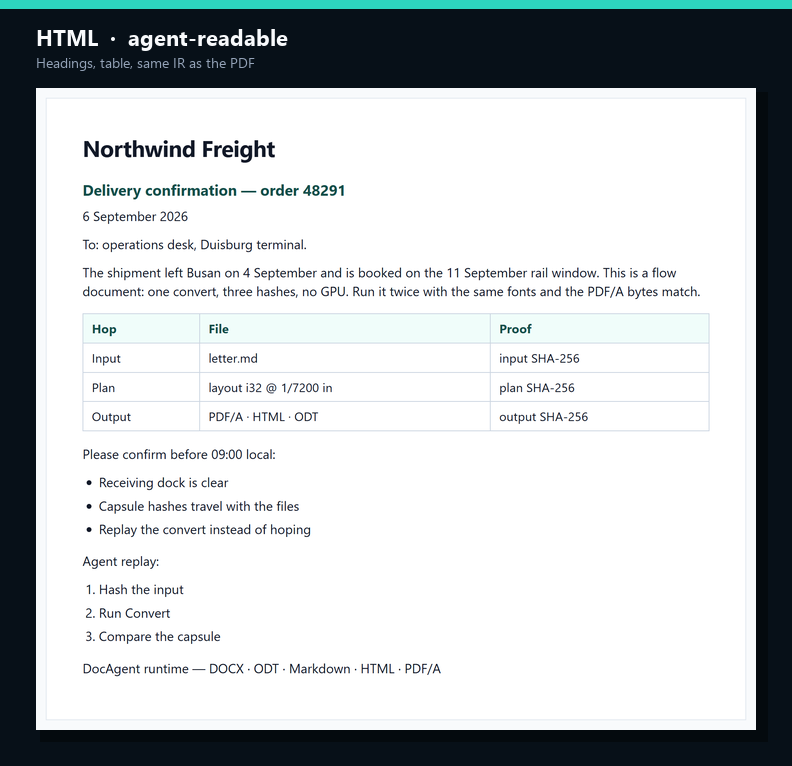
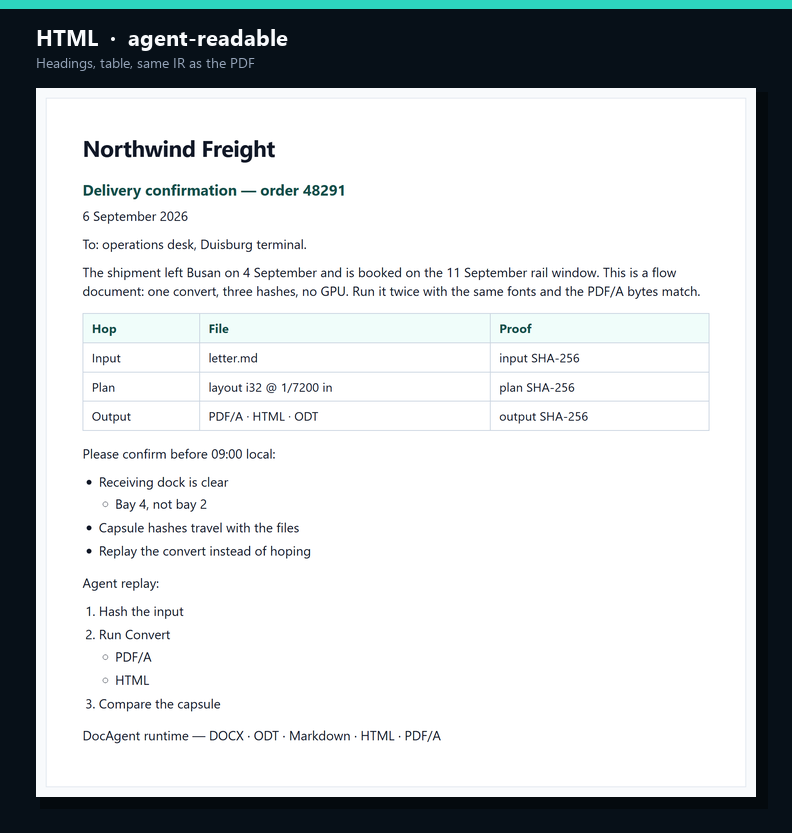
Nest markdown lists in PDF/A and HTML.
Indented - / 1. items set NumberingRef.level. Layout keeps hanging indent (origin_x + line.x). HTML emits nested ul/ol inside the parent li. The sample letter now shows nested dock and convert hops.

Changed region(s): [[0.0909, 0.1501, 0.8788, 0.9008], [0.0303, 0.03, 0.9697, 0.1201], [0.0606, 0.9308, 0.9394, 0.9608]]

diff --git a/docs/assets/letter.html b/docs/assets/letter.html
@@ -1,1 +1,1 @@
-<!DOCTYPE html><html lang="en"><head><meta charset="utf-8"/><title>DocAgent</title><style>body{margin:0;background:#f8fafc;color:#111827}article{max-width:48rem;margin:2rem auto;padding:2.5rem 2.75rem;background:#fff;border:1px solid #e2e8f0;font-family:"Segoe UI",Roboto,Helvetica,Arial,sans-serif;line-height:1.45}h1{font-size:1.75rem;margin:0 0 .6rem;letter-spacing:-.02em}h2{font-size:1.15rem;margin:1.1rem 0 .45rem;color:#134e4a}p{margin:0 0 .7rem}ul,ol{margin:0 0 1rem;padding-left:1.25rem}li{margin:0 0 .35rem}table{border-collapse:collapse;margin:1rem 0;width:100%}th,td{border:1px solid #cbd5e1;padding:.4rem .65rem;text-align:left;font-size:.95rem}th{background:#f0fdfa;color:#134e4a}</style></head><body><article data-section="0"><section><h1>Northwind Freight</h1><h2>Delivery confirmation — order 48291</h2><p>6 September 2026</p><p>To: operations desk, Duisburg terminal.</p><p>The shipment left Busan on 4 September and is booked on the 11 September rail window. This is a flow document: one convert, three hashes, no GPU. Run it twice with the same fonts and the PDF/A bytes match.</p><table><tr><th>Hop</th><th>File</th><th>Proof</th></tr><tr><td>Input</td><td>letter.md</td><td>input SHA-256</td></tr><tr><td>Plan</td><td>layout i32 @ 1/7200 in</td><td>plan SHA-256</td></tr><tr><td>Output</td><td>PDF/A · HTML · ODT</td><td>output SHA-256</td></tr></table><p>Please confirm before 09:00 local:</p><ul><li>Receiving dock is clear</li><li>Capsule hashes travel with the files</li><li>Replay the convert instead of hoping</li></ul><p>Agent replay:</p><ol><li>Hash the input</li><li>Run Convert</li><li>Compare the capsule</li></ol><p>DocAgent runtime — DOCX · ODT · Markdown · HTML · PDF/A</p></section></article></body></html>
+<!DOCTYPE html><html lang="en"><head><meta charset="utf-8"/><title>DocAgent</title><style>body{margin:0;background:#f8fafc;color:#111827}article{max-width:48rem;margin:2rem auto;padding:2.5rem 2.75rem;background:#fff;border:1px solid #e2e8f0;font-family:"Segoe UI",Roboto,Helvetica,Arial,sans-serif;line-height:1.45}h1{font-size:1.75rem;margin:0 0 .6rem;letter-spacing:-.02em}h2{font-size:1.15rem;margin:1.1rem 0 .45rem;color:#134e4a}p{margin:0 0 .7rem}ul,ol{margin:0 0 1rem;padding-left:1.25rem}ul ul,ol ul,ul ol,ol ol{margin:.25rem 0}li{margin:0 0 .35rem}table{border-collapse:collapse;margin:1rem 0;width:100%}th,td{border:1px solid #cbd5e1;padding:.4rem .65rem;text-align:left;font-size:.95rem}th{background:#f0fdfa;color:#134e4a}</style></head><body><article data-section="0"><section><h1>Northwind Freight</h1><h2>Delivery confirmation — order 48291</h2><p>6 September 2026</p><p>To: operations desk, Duisburg terminal.</p><p>The shipment left Busan on 4 September and is booked on the 11 September rail window. This is a flow document: one convert, three hashes, no GPU. Run it twice with the same fonts and the PDF/A bytes match.</p><table><tr><th>Hop</th><th>File</th><th>Proof</th></tr><tr><td>Input</td><td>letter.md</td><td>input SHA-256</td></tr><tr><td>Plan</td><td>layout i32 @ 1/7200 in</td><td>plan SHA-256</td></tr><tr><td>Output</td><td>PDF/A · HTML · ODT</td><td>output SHA-256</td></tr></table><p>Please confirm before 09:00 local:</p><ul><li>Receiving dock is clear<ul><li>Bay 4, not bay 2</li></ul></li><li>Capsule hashes travel with the files</li><li>Replay the convert instead of hoping</li></ul><p>Agent replay:</p><ol><li>Hash the input</li><li>Run Convert<ul><li>PDF/A</li><li>HTML</li></ul></li><li>Compare the capsule</li></ol><p>DocAgent runtime — DOCX · ODT · Markdown · HTML · PDF/A</p></section></article></body></html>

diff --git a/crates/docagent-html/src/lib.rs b/crates/docagent-html/src/lib.rs
@@ -6,7 +6,7 @@ use docagent_model::{Block, Document, Paragraph, Table};
 
 pub fn to_html(doc: &Document) -> String {
     let mut s = String::from(
-        r#"<!DOCTYPE html><html lang="en"><head><meta charset="utf-8"/><title>DocAgent</title><style>body{margin:0;background:#f8fafc;color:#111827}article{max-width:48rem;margin:2rem auto;padding:2.5rem 2.75rem;background:#fff;border:1px solid #e2e8f0;font-family:"Segoe UI",Roboto,Helvetica,Arial,sans-serif;line-height:1.45}h1{font-size:1.75rem;margin:0 0 .6rem;letter-spacing:-.02em}h2{font-size:1.15rem;margin:1.1rem 0 .45rem;color:#134e4a}p{margin:0 0 .7rem}ul,ol{margin:0 0 1rem;padding-left:1.25rem}li{margin:0 0 .35rem}table{border-collapse:collapse;margin:1rem 0;width:100%}th,td{border:1px solid #cbd5e1;padding:.4rem .65rem;text-align:left;font-size:.95rem}th{background:#f0fdfa;color:#134e4a}</style></head><body>"#,
+        r#"<!DOCTYPE html><html lang="en"><head><meta charset="utf-8"/><title>DocAgent</title><style>body{margin:0;background:#f8fafc;color:#111827}article{max-width:48rem;margin:2rem auto;padding:2.5rem 2.75rem;background:#fff;border:1px solid #e2e8f0;font-family:"Segoe UI",Roboto,Helvetica,Arial,sans-serif;line-height:1.45}h1{font-size:1.75rem;margin:0 0 .6rem;letter-spacing:-.02em}h2{font-size:1.15rem;margin:1.1rem 0 .45rem;color:#134e4a}p{margin:0 0 .7rem}ul,ol{margin:0 0 1rem;padding-left:1.25rem}ul ul,ol ul,ul ol,ol ol{margin:.25rem 0}li{margin:0 0 .35rem}table{border-collapse:collapse;margin:1rem 0;width:100%}th,td{border:1px solid #cbd5e1;padding:.4rem .65rem;text-align:left;font-size:.95rem}th{background:#f0fdfa;color:#134e4a}</style></head><body>"#,
     );
     for (i, section) in doc.sections.iter().enumerate() {
         s.push_str(&format!(r#"<article data-section="{i}">"#));
@@ -36,43 +36,74 @@ fn list_format(block: &Block) -> Option<docagent_model::NumberFormat> {
     }
 }
 
-fn push_list_items(s: &mut String, blocks: &[Block], i: &mut usize, fmt: docagent_model::NumberFormat) {
-    while *i < blocks.len() && list_format(&blocks[*i]) == Some(fmt) {
-        if let Block::Paragraph(p) = &blocks[*i] {
-            s.push_str("<li>");
-            s.push_str(&escape(&p.plain_text()));
-            s.push_str("</li>");
+fn list_level(block: &Block) -> Option<u8> {
+    match block {
+        Block::Paragraph(p) => p.numbering.as_ref().map(|n| n.level),
+        _ => None,
+    }
+}
+
+fn emit_list(s: &mut String, blocks: &[Block], i: &mut usize) {
+    let Some(fmt) = list_format(&blocks[*i]) else {
+        return;
+    };
+    let base = list_level(&blocks[*i]).unwrap_or(0);
+    match fmt {
+        docagent_model::NumberFormat::Bullet => s.push_str("<ul>"),
+        docagent_model::NumberFormat::Decimal => {
+            let start = match &blocks[*i] {
+                Block::Paragraph(p) => p.numbering.as_ref().and_then(|n| n.start).unwrap_or(1),
+                _ => 1,
+            };
+            if start == 1 {
+                s.push_str("<ol>");
+            } else {
+                s.push_str(&format!("<ol start=\"{start}\">"));
+            }
         }
+        _ => return,
+    }
+    while *i < blocks.len() {
+        let Some(f) = list_format(&blocks[*i]) else {
+            break;
+        };
+        let lvl = list_level(&blocks[*i]).unwrap_or(0);
+        if lvl < base {
+            break;
+        }
+        if lvl > base {
+            emit_list(s, blocks, i);
+            continue;
+        }
+        if f != fmt {
+            break;
+        }
+        let Block::Paragraph(p) = &blocks[*i] else {
+            break;
+        };
+        s.push_str("<li>");
+        s.push_str(&escape(&p.plain_text()));
         *i += 1;
+        if *i < blocks.len() && list_level(&blocks[*i]).is_some_and(|nl| nl > base) {
+            emit_list(s, blocks, i);
+        }
+        s.push_str("</li>");
+    }
+    match fmt {
+        docagent_model::NumberFormat::Bullet => s.push_str("</ul>"),
+        docagent_model::NumberFormat::Decimal => s.push_str("</ol>"),
+        _ => {}
     }
 }
 
 fn push_blocks(s: &mut String, blocks: &[Block]) {
     let mut i = 0;
     while i < blocks.len() {
-        match list_format(&blocks[i]) {
-            Some(docagent_model::NumberFormat::Bullet) => {
-                s.push_str("<ul>");
-                push_list_items(s, blocks, &mut i, docagent_model::NumberFormat::Bullet);
-                s.push_str("</ul>");
-            }
-            Some(docagent_model::NumberFormat::Decimal) => {
-                let start = match &blocks[i] {
-                    Block::Paragraph(p) => p.numbering.as_ref().and_then(|n| n.start).unwrap_or(1),
-                    _ => 1,
-                };
-                if start == 1 {
-                    s.push_str("<ol>");
-                } else {
-                    s.push_str(&format!("<ol start=\"{start}\">"));
-                }
-                push_list_items(s, blocks, &mut i, docagent_model::NumberFormat::Decimal);
-                s.push_str("</ol>");
-            }
-            _ => {
-                push_block(s, &blocks[i]);
-                i += 1;
-            }
+        if list_format(&blocks[i]).is_some() {
+            emit_list(s, blocks, &mut i);
+        } else {
+            push_block(s, &blocks[i]);
+            i += 1;
         }
     }
 }
@@ -225,5 +256,30 @@ mod tests {
         assert!(html.contains("<li>Hash the input</li>"));
         assert!(html.contains("<li>Run Convert</li>"));
         assert!(!html.contains("<ul>"));
+    }
+
+    #[test]
+    fn nested_bullets_are_nested_ul() {
+        let mut doc = Document::new();
+        let mut section = Section::default();
+        let mut a = Paragraph::from_text("dock");
+        a.numbering = Some(docagent_model::NumberingRef {
+            definition_id: 0,
+            level: 0,
+            start: None,
+            format: Some(docagent_model::NumberFormat::Bullet),
+        });
+        let mut b = Paragraph::from_text("bay 4");
+        b.numbering = Some(docagent_model::NumberingRef {
+            definition_id: 0,
+            level: 1,
+            start: None,
+            format: Some(docagent_model::NumberFormat::Bullet),
+        });
+        section.body.push(Block::Paragraph(a));
+        section.body.push(Block::Paragraph(b));
+        doc.sections.push(section);
+        let html = to_html(&doc);
+        assert!(html.contains("<ul><li>dock<ul><li>bay 4</li></ul></li></ul>"), "{html}");
     }
 }

diff --git a/crates/docagent-md/src/lib.rs b/crates/docagent-md/src/lib.rs
@@ -54,17 +54,19 @@ pub fn read(bytes: &[u8]) -> Result<Document, Error> {
         if trimmed.is_empty() {
             continue;
         }
-        if let Some(rest) = trimmed.strip_prefix("# ") {
+        let nest = list_nest(trimmed);
+        let content = trimmed.trim_start();
+        if let Some(rest) = content.strip_prefix("# ") {
             section.body.push(Block::Paragraph(heading(rest, 1, 1800, 200, 400)));
-        } else if let Some(rest) = trimmed.strip_prefix("## ") {
+        } else if let Some(rest) = content.strip_prefix("## ") {
             section.body.push(Block::Paragraph(heading(rest, 2, 1400, 360, 240)));
-        } else if let Some(rest) = trimmed
+        } else if let Some(rest) = content
             .strip_prefix("- ")
-            .or_else(|| trimmed.strip_prefix("* "))
+            .or_else(|| content.strip_prefix("* "))
         {
-            section.body.push(Block::Paragraph(bullet_item(rest)));
-        } else if let Some((n, rest)) = ordered_item(trimmed) {
-            section.body.push(Block::Paragraph(decimal_item(rest, n)));
+            section.body.push(Block::Paragraph(bullet_item(rest, nest)));
+        } else if let Some((n, rest)) = ordered_item(content) {
+            section.body.push(Block::Paragraph(decimal_item(rest, n, nest)));
         } else {
             let mut p = Paragraph::from_text(trimmed);
             p.space_after = 200;
@@ -85,26 +87,35 @@ fn ordered_item(line: &str) -> Option<(u32, &str)> {
     (n > 0).then_some((n, rest))
 }
 
-fn decimal_item(text: &str, n: u32) -> Paragraph {
+fn list_nest(line: &str) -> u8 {
+    let spaces = line.bytes().take_while(|b| *b == b' ').count();
+    (spaces / 2).min(3) as u8
+}
+
+fn list_indent(nest: u8) -> i32 {
+    1440i32.saturating_mul(i32::from(nest) + 1)
+}
+
+fn decimal_item(text: &str, n: u32, nest: u8) -> Paragraph {
     let mut p = Paragraph::from_text(text);
     p.space_after = 80;
-    p.indent_left = 1440;
+    p.indent_left = list_indent(nest);
     p.numbering = Some(NumberingRef {
         definition_id: 1,
-        level: 0,
+        level: nest,
         start: Some(n),
         format: Some(NumberFormat::Decimal),
     });
     p
 }
 
-fn bullet_item(text: &str) -> Paragraph {
+fn bullet_item(text: &str, nest: u8) -> Paragraph {
     let mut p = Paragraph::from_text(text);
     p.space_after = 80;
-    p.indent_left = 1440;
+    p.indent_left = list_indent(nest);
     p.numbering = Some(NumberingRef {
         definition_id: 0,
-        level: 0,
+        level: nest,
         start: None,
         format: Some(NumberFormat::Bullet),
     });
@@ -156,14 +167,17 @@ pub fn write(doc: &Document) -> Result<Vec<u8>, Error> {
                             n.format == Some(NumberFormat::Decimal)
                         }) =>
                         {
-                            let i = p
-                                .numbering
-                                .as_ref()
-                                .and_then(|n| n.start)
-                                .unwrap_or(1);
-                            out.push_str(&format!("{i}. {t}\n"));
+                            let nref = p.numbering.as_ref().unwrap();
+                            let i = nref.start.unwrap_or(1);
+                            let pad = "  ".repeat(nref.level as usize);
+                            out.push_str(&format!("{pad}{i}. {t}\n"));
                         }
-                        _ if p.numbering.is_some() => out.push_str(&format!("- {t}\n")),
+                        _ if p.numbering.is_some() => {
+                            let pad = "  ".repeat(
+                                p.numbering.as_ref().map(|n| n.level as usize).unwrap_or(0),
+                            );
+                            out.push_str(&format!("{pad}- {t}\n"));
+                        }
                         _ => out.push_str(&format!("{t}\n\n")),
                     }
                 }
@@ -254,6 +268,24 @@ mod tests {
         let text = String::from_utf8(back).unwrap();
         assert!(text.contains("1. Hash the input"));
         assert!(text.contains("2. Run Convert"));
+    }
+
+    #[test]
+    fn nested_bullets_keep_level() {
+        let src = b"- dock\n  - bay 4\n- hashes\n";
+        let doc = read(src).unwrap();
+        let levels: Vec<_> = doc.sections[0]
+            .body
+            .iter()
+            .filter_map(|b| match b {
+                Block::Paragraph(p) => p.numbering.as_ref().map(|n| n.level),
+                _ => None,
+            })
+            .collect();
+        assert_eq!(levels, [0, 1, 0]);
+        let back = write(&doc).unwrap();
+        let text = String::from_utf8(back).unwrap();
+        assert!(text.contains("  - bay 4"), "{text}");
     }
 
     #[test]

diff --git a/crates/docagent-layout/src/lib.rs b/crates/docagent-layout/src/lib.rs
@@ -99,7 +99,7 @@ fn layout_section(section: &Section, fonts: &FontSet) -> Vec<PageFrag> {
                         y = origin_y + space_before;
                     }
                     let mut placed = line;
-                    placed.x = origin_x;
+                    placed.x = origin_x.saturating_add(placed.x);
                     placed.y = y;
                     y += placed.height;
                     current.lines.push(placed);
@@ -620,5 +620,34 @@ mod tests {
         let text = &tree.pages[0].lines[0].text;
         assert!(text.starts_with("3. "), "{text}");
         assert!(text.contains("Hash the input"), "{text}");
+    }
+
+    #[test]
+    fn nested_bullet_hangs_further() {
+        let mut doc = Document::new();
+        let mut section = Section::default();
+        let mut a = Paragraph::from_text("dock");
+        a.indent_left = 1440;
+        a.numbering = Some(NumberingRef {
+            definition_id: 0,
+            level: 0,
+            start: None,
+            format: Some(NumberFormat::Bullet),
+        });
+        let mut b = Paragraph::from_text("bay 4");
+        b.indent_left = 2880;
+        b.numbering = Some(NumberingRef {
+            definition_id: 0,
+            level: 1,
+            start: None,
+            format: Some(NumberFormat::Bullet),
+        });
+        section.body.push(Block::Paragraph(a));
+        section.body.push(Block::Paragraph(b));
+        doc.sections.push(section);
+        let tree = layout_document(&doc, &FontSet::bundled());
+        let xs: Vec<_> = tree.pages[0].lines.iter().map(|l| l.x).collect();
+        assert!(xs.len() >= 2);
+        assert!(xs[1] > xs[0], "{xs:?}");
     }
 }

diff --git a/docs/loop/STATE.md b/docs/loop/STATE.md
@@ -1,25 +1,27 @@
 # DocAgent #1 loop state
 
-Last cycle: 6 (2026-09-06) — ordered lists (`1.`) on the sample letter
+Last cycle: 7 (2026-09-06) — nested lists on the sample letter
 
 ## Public GitHub page (priority 0)
 
 The page strangers see is `https://github.com/kevin9327/docagent`.
 
 Shipped this cycle:
-- Markdown `1. item` keeps `NumberFormat::Decimal` and `start` on the IR.
-- Layout prefixes `1. ` / `2. ` with hanging indent. HTML emits `<ol><li>`.
-- `examples/letter.md` now has an agent-replay numbered list. Convert screenshots and prove hashes refreshed.
+- Markdown nested lists (`  -` / `   -`) set `NumberingRef.level` and hanging indent.
+- HTML emits nested `<ul>`/`<ol>` inside the parent `<li>`.
+- Layout now places lines at `origin_x + line.x` so list indent is not discarded.
+- Sample letter shows a nested dock note and nested PDF/A·HTML under Convert. Screenshots and prove hashes refreshed.
 
 Verified hashes (engine 0.1.0, letter.md → PDF/A + HTML):
[5 lines of base64/hex data omitted]
 
 ## Next
 
-1. Nested lists, or PDF drawing of non-table fills beyond the grid.
-2. Keep visual density at or above MinerU/Docling for an *agent document runtime*.
+1. Inline emphasis (`**bold**` / `_italic_`) in markdown → HTML `<strong>`/`<em>` (PDF needs a bold face).
+2. Or PDF drawing of non-table fills beyond the grid.
+3. Keep visual density at or above MinerU/Docling for an *agent document runtime*.
 
 ## Rule
 

diff --git a/README.md b/README.md
@@ -89,9 +89,9 @@ Not a slogan. Two `Command::Convert` calls on [`examples/letter.md`](examples/le
 
 | Hash | SHA-256 (both runs) |
 | --- | --- |
[5 lines of base64/hex data omitted]
 
 These are the hashes in [`letter-capsule.json`](docs/assets/letter-capsule.json). MinerU and Docling do not ship this. We do not ship OmniDocBench numbers.
 
@@ -107,7 +107,7 @@ These three pictures are the convert of [`examples/letter.md`](examples/letter.m
 <p align="center">
   <img src="docs/assets/output-html.png" alt="Semantic HTML produced by DocAgent from the same letter" width="100%">
 </p>
-<p align="center"><sub>HTML from the same IR. Headings, tables, bullets, and numbered lists an agent can read back.</sub></p>
+<p align="center"><sub>HTML from the same IR. Headings, tables, nested bullets, and numbered lists an agent can read back.</sub></p>
 
 <p align="center">
   <img src="docs/assets/output-capsule.png" alt="Capsule JSON with input, plan, and output SHA-256 hashes" width="100%">

diff --git a/examples/letter.md b/examples/letter.md
@@ -17,6 +17,7 @@ The shipment left Busan on 4 September and is booked on the 11 September rail wi
 Please confirm before 09:00 local:
 
 - Receiving dock is clear
+  - Bay 4, not bay 2
 - Capsule hashes travel with the files
 - Replay the convert instead of hoping
 
@@ -24,6 +25,8 @@ Agent replay:
 
 1. Hash the input
 2. Run Convert
+   - PDF/A
+   - HTML
 3. Compare the capsule
 
 DocAgent runtime — DOCX · ODT · Markdown · HTML · PDF/A
